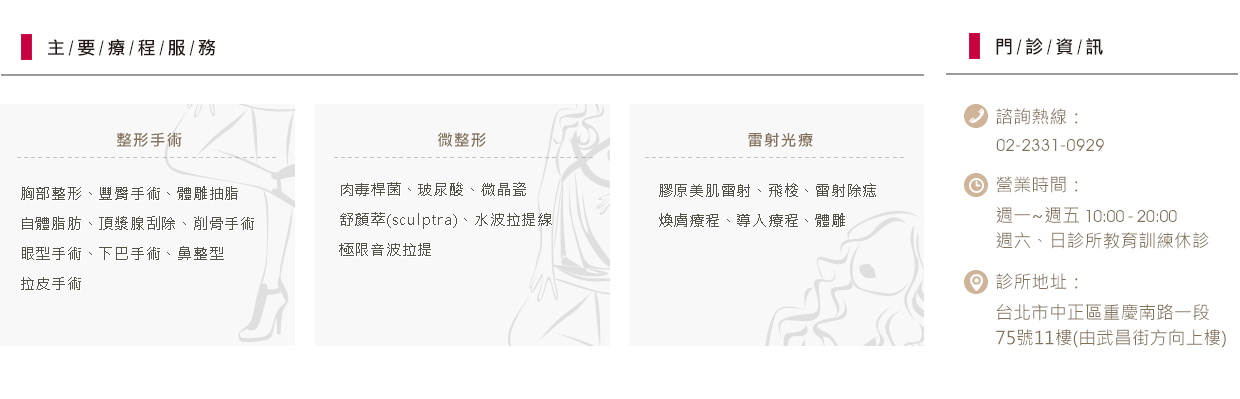
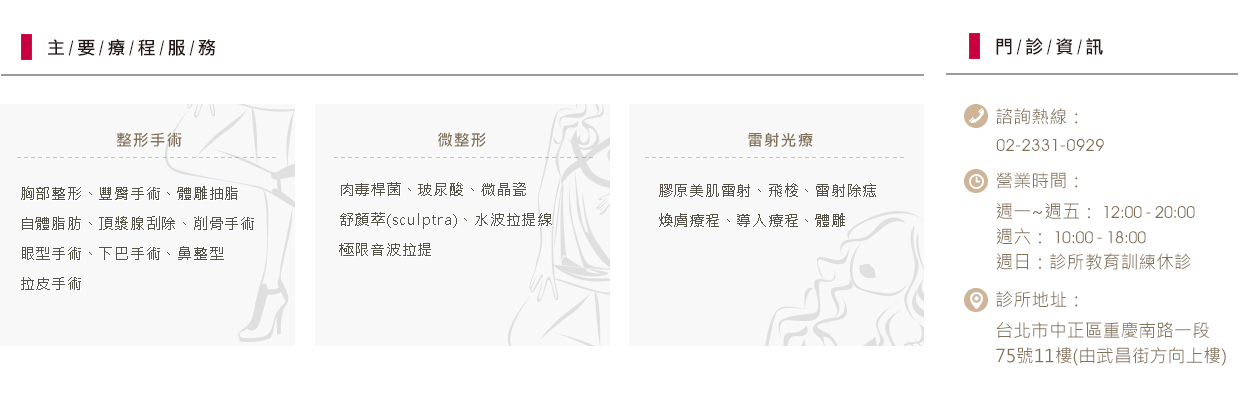
門診班表時間修改 #20150306

Changed region(s): [[0.7661, 0.5113, 1.0, 0.9323], [0.7661, 0.4211, 0.8581, 0.5113]]

diff --git a/content/clinic.html b/content/clinic.html
@@ -291,7 +291,7 @@
                             <th>星期日</th>
                           </tr>
                           <tr>
-                            <td class="w100">10:00~13:00</td>
+                            <td class="w100">上午</td>
                             <td>
                                <a href="doctor_main.html">陽岱鋼 醫師</a><br>
                                <a href="doctor_main.html">郭俊麟 醫師</a><br>
@@ -309,11 +309,14 @@
                             <td>
                                 <a href="doctor_main.html">陳偉殷 醫師</a><br>
                             </td>
-                            <td rowspan="3">教育訓練</td>
-                            <td rowspan="3">教育訓練</td>
+                            <td>
+                               <a href="doctor_main.html">陽岱鋼 醫師</a><br>
+                               <a href="doctor_main.html">郭俊麟 醫師</a><br>
+                            </td>
+                            <td rowspan="3">教育訓練<br>(休診)</td>
                           </tr>
                           <tr>
-                            <td class="w100">13:00~16:00</td>
+                            <td class="w100">下午</td>
                             <td>
                                <a href="doctor_main.html">陽岱鋼 醫師</a><br>
                             </td>
@@ -329,9 +332,12 @@
                             <td>
                                 <a href="doctor_main.html">陽岱鋼 醫師</a><br>
                             </td>
+                            <td>
+                               <a href="doctor_main.html">郭俊麟 醫師</a><br>
+                            </td>
                           </tr>
                           <tr>
-                            <td class="w100">17:00~20:00</td>
+                            <td class="w100">晚間</td>
                             <td>
                                <a href="doctor_main.html">陽岱鋼 醫師</a><br>
                                <a href="doctor_main.html">郭俊麟 醫師</a><br>
@@ -348,6 +354,9 @@
                             </td>
                             <td>
                                 <a href="doctor_main.html">陳偉殷 醫師</a><br>
+                            </td>
+                            <td>
+                               <a href="doctor_main.html">郭俊麟 醫師</a><br>
                             </td>
                           </tr>
                         </table>
@@ -485,7 +494,7 @@
         <h4>美醫時尚醫美診所</h4>
         <ul class="clinic_info">
            <li><span>服務專線：02-2331-0929</span>傳真專線：02-2331-1029</li>
-           <li>服務時間：週一～週五10:00~20:00  週六、日教育訓練休診</li>
+           <li>服務時間：週一～週五10:00~20:00<br><span class="clinic_time">週六 10:00~18:00 週日教育訓練休診</span></li>
            <li>診所位置：台北市中正區重慶南路一段75號11樓</li>
         </ul>
         <p class="clinic_note">醫療機構網際網路資訊管理辦法聲明：<br>本站資訊僅供參考，不能取代醫生及專業醫療人員當面評估及治療。<br>禁止任何網路業者轉載本站文章內容</p>

diff --git a/index.html b/index.html
@@ -157,7 +157,7 @@
                  <h3>媒體影音</h3>
                  <iframe class="info_imedia" width="364" height="214" src="http://www.youtube.com/embed/vBvmLvxWEQE?rel=0" frameborder="0" allowfullscreen></iframe>
                  <p class="micon-01">諮詢熱線：02-2331-0929</p>
-                 <p class="micon-02">營業時間：週一～週五10:00~20:00</p>
+                 <p class="micon-02">營業時間：週一～週五10:00~20:00<br>週六 10:00~18:00&nbsp;週日教育訓練休診</p>
               </div>
               
               <!--最新消息--> 
@@ -361,7 +361,7 @@
         <h4>美醫時尚醫美診所</h4>
         <ul class="clinic_info">
            <li><span>服務專線：02-2331-0929</span>傳真專線：02-2331-1029</li>
-           <li>服務時間：週一～週五10:00~20:00  週六、日教育訓練休診</li>
+           <li>服務時間：週一～週五10:00~20:00<br><span class="clinic_time">週六 10:00~18:00 週日教育訓練休診</span></li>
            <li>診所位置：台北市中正區重慶南路一段75號11樓</li>
         </ul>
         <p class="clinic_note">醫療機構網際網路資訊管理辦法聲明：<br>本站資訊僅供參考，不能取代醫生及專業醫療人員當面評估及治療。<br>禁止任何網路業者轉載本站文章內容</p>

diff --git a/content/about.html b/content/about.html
@@ -392,7 +392,7 @@
         <h4>美醫時尚醫美診所</h4>
         <ul class="clinic_info">
            <li><span>服務專線：02-2331-0929</span>傳真專線：02-2331-1029</li>
-           <li>服務時間：週一～週五10:00~20:00  週六、日教育訓練休診</li>
+           <li>服務時間：週一～週五10:00~20:00<br><span class="clinic_time">週六 10:00~18:00 週日教育訓練休診</span></li>
            <li>診所位置：台北市中正區重慶南路一段75號11樓</li>
         </ul>
         <p class="clinic_note">醫療機構網際網路資訊管理辦法聲明：<br>本站資訊僅供參考，不能取代醫生及專業醫療人員當面評估及治療。<br>禁止任何網路業者轉載本站文章內容</p>

diff --git a/content/doctor_list.html b/content/doctor_list.html
@@ -305,7 +305,7 @@
         <h4>美醫時尚醫美診所</h4>
         <ul class="clinic_info">
            <li><span>服務專線：02-2331-0929</span>傳真專線：02-2331-1029</li>
-           <li>服務時間：週一～週五10:00~20:00  週六、日教育訓練休診</li>
+           <li>服務時間：週一～週五10:00~20:00<br><span class="clinic_time">週六 10:00~18:00 週日教育訓練休診</span></li>
            <li>診所位置：台北市中正區重慶南路一段75號11樓</li>
         </ul>
         <p class="clinic_note">醫療機構網際網路資訊管理辦法聲明：<br>本站資訊僅供參考，不能取代醫生及專業醫療人員當面評估及治療。<br>禁止任何網路業者轉載本站文章內容</p>

diff --git a/content/doctor_main.html b/content/doctor_main.html
@@ -347,7 +347,7 @@
         <h4>美醫時尚醫美診所</h4>
         <ul class="clinic_info">
            <li><span>服務專線：02-2331-0929</span>傳真專線：02-2331-1029</li>
-           <li>服務時間：週一～週五10:00~20:00  週六、日教育訓練休診</li>
+           <li>服務時間：週一～週五10:00~20:00<br><span class="clinic_time">週六 10:00~18:00 週日教育訓練休診</span></li>
            <li>診所位置：台北市中正區重慶南路一段75號11樓</li>
         </ul>
         <p class="clinic_note">醫療機構網際網路資訊管理辦法聲明：<br>本站資訊僅供參考，不能取代醫生及專業醫療人員當面評估及治療。<br>禁止任何網路業者轉載本站文章內容</p>

diff --git a/content/media_list.html b/content/media_list.html
@@ -394,7 +394,7 @@
         <h4>美醫時尚醫美診所</h4>
         <ul class="clinic_info">
            <li><span>服務專線：02-2331-0929</span>傳真專線：02-2331-1029</li>
-           <li>服務時間：週一～週五10:00~20:00  週六、日教育訓練休診</li>
+           <li>服務時間：週一～週五10:00~20:00<br><span class="clinic_time">週六 10:00~18:00 週日教育訓練休診</span></li>
            <li>診所位置：台北市中正區重慶南路一段75號11樓</li>
         </ul>
         <p class="clinic_note">醫療機構網際網路資訊管理辦法聲明：<br>本站資訊僅供參考，不能取代醫生及專業醫療人員當面評估及治療。<br>禁止任何網路業者轉載本站文章內容</p>

diff --git a/content/media_main.html b/content/media_main.html
@@ -331,7 +331,7 @@
         <h4>美醫時尚醫美診所</h4>
         <ul class="clinic_info">
            <li><span>服務專線：02-2331-0929</span>傳真專線：02-2331-1029</li>
-           <li>服務時間：週一～週五10:00~20:00  週六、日教育訓練休診</li>
+           <li>服務時間：週一～週五10:00~20:00<br><span class="clinic_time">週六 10:00~18:00 週日教育訓練休診</span></li>
            <li>診所位置：台北市中正區重慶南路一段75號11樓</li>
         </ul>
         <p class="clinic_note">醫療機構網際網路資訊管理辦法聲明：<br>本站資訊僅供參考，不能取代醫生及專業醫療人員當面評估及治療。<br>禁止任何網路業者轉載本站文章內容</p>

diff --git a/content/news_list.html b/content/news_list.html
@@ -365,7 +365,7 @@
         <h4>美醫時尚醫美診所</h4>
         <ul class="clinic_info">
            <li><span>服務專線：02-2331-0929</span>傳真專線：02-2331-1029</li>
-           <li>服務時間：週一～週五10:00~20:00  週六、日教育訓練休診</li>
+           <li>服務時間：週一～週五10:00~20:00<br><span class="clinic_time">週六 10:00~18:00 週日教育訓練休診</span></li>
            <li>診所位置：台北市中正區重慶南路一段75號11樓</li>
         </ul>
         <p class="clinic_note">醫療機構網際網路資訊管理辦法聲明：<br>本站資訊僅供參考，不能取代醫生及專業醫療人員當面評估及治療。<br>禁止任何網路業者轉載本站文章內容</p>

diff --git a/content/news_main.html b/content/news_main.html
@@ -330,7 +330,7 @@
         <h4>美醫時尚醫美診所</h4>
         <ul class="clinic_info">
            <li><span>服務專線：02-2331-0929</span>傳真專線：02-2331-1029</li>
-           <li>服務時間：週一～週五10:00~20:00  週六、日教育訓練休診</li>
+           <li>服務時間：週一～週五10:00~20:00<br><span class="clinic_time">週六 10:00~18:00 週日教育訓練休診</span></li>
            <li>診所位置：台北市中正區重慶南路一段75號11樓</li>
         </ul>
         <p class="clinic_note">醫療機構網際網路資訊管理辦法聲明：<br>本站資訊僅供參考，不能取代醫生及專業醫療人員當面評估及治療。<br>禁止任何網路業者轉載本站文章內容</p>

diff --git a/content/service.html b/content/service.html
@@ -394,7 +394,7 @@
         <h4>美醫時尚醫美診所</h4>
         <ul class="clinic_info">
            <li><span>服務專線：02-2331-0929</span>傳真專線：02-2331-1029</li>
-           <li>服務時間：週一～週五10:00~20:00  週六、日教育訓練休診</li>
+           <li>服務時間：週一～週五10:00~20:00<br><span class="clinic_time">週六 10:00~18:00 週日教育訓練休診</span></li>
            <li>診所位置：台北市中正區重慶南路一段75號11樓</li>
         </ul>
         <p class="clinic_note">醫療機構網際網路資訊管理辦法聲明：<br>本站資訊僅供參考，不能取代醫生及專業醫療人員當面評估及治療。<br>禁止任何網路業者轉載本站文章內容</p>

diff --git a/css/xuemain_201502.css b/css/xuemain_201502.css
@@ -239,6 +239,7 @@ footer p, footer li{
 #foot-main a, #foot-main a:hover, #foot-main a:visited{ color:#a9a28d; text-decoration:none}	
 .clinic_info{ margin-right:50px}
 .clinic_info span{ margin-right:20px}
+.clinic_info .clinic_time{ padding-left:65px; margin-right:0}
 
 /* 2.5 頁面中間區塊 */
 #container{
@@ -1010,7 +1011,7 @@ footer p, footer li{
 	vertical-align:middle;
 	border-spacing: 1px;
 	border:1px solid #dad2cd}
-.my_calendar .w100{ font-weight:bold}
+.my_calendar .w100{ font-weight:bold; width:60px}
 #clinic_map h4, #clinic_calendar h4{
 	font-size:1.25em;
 	line-height:25px;
